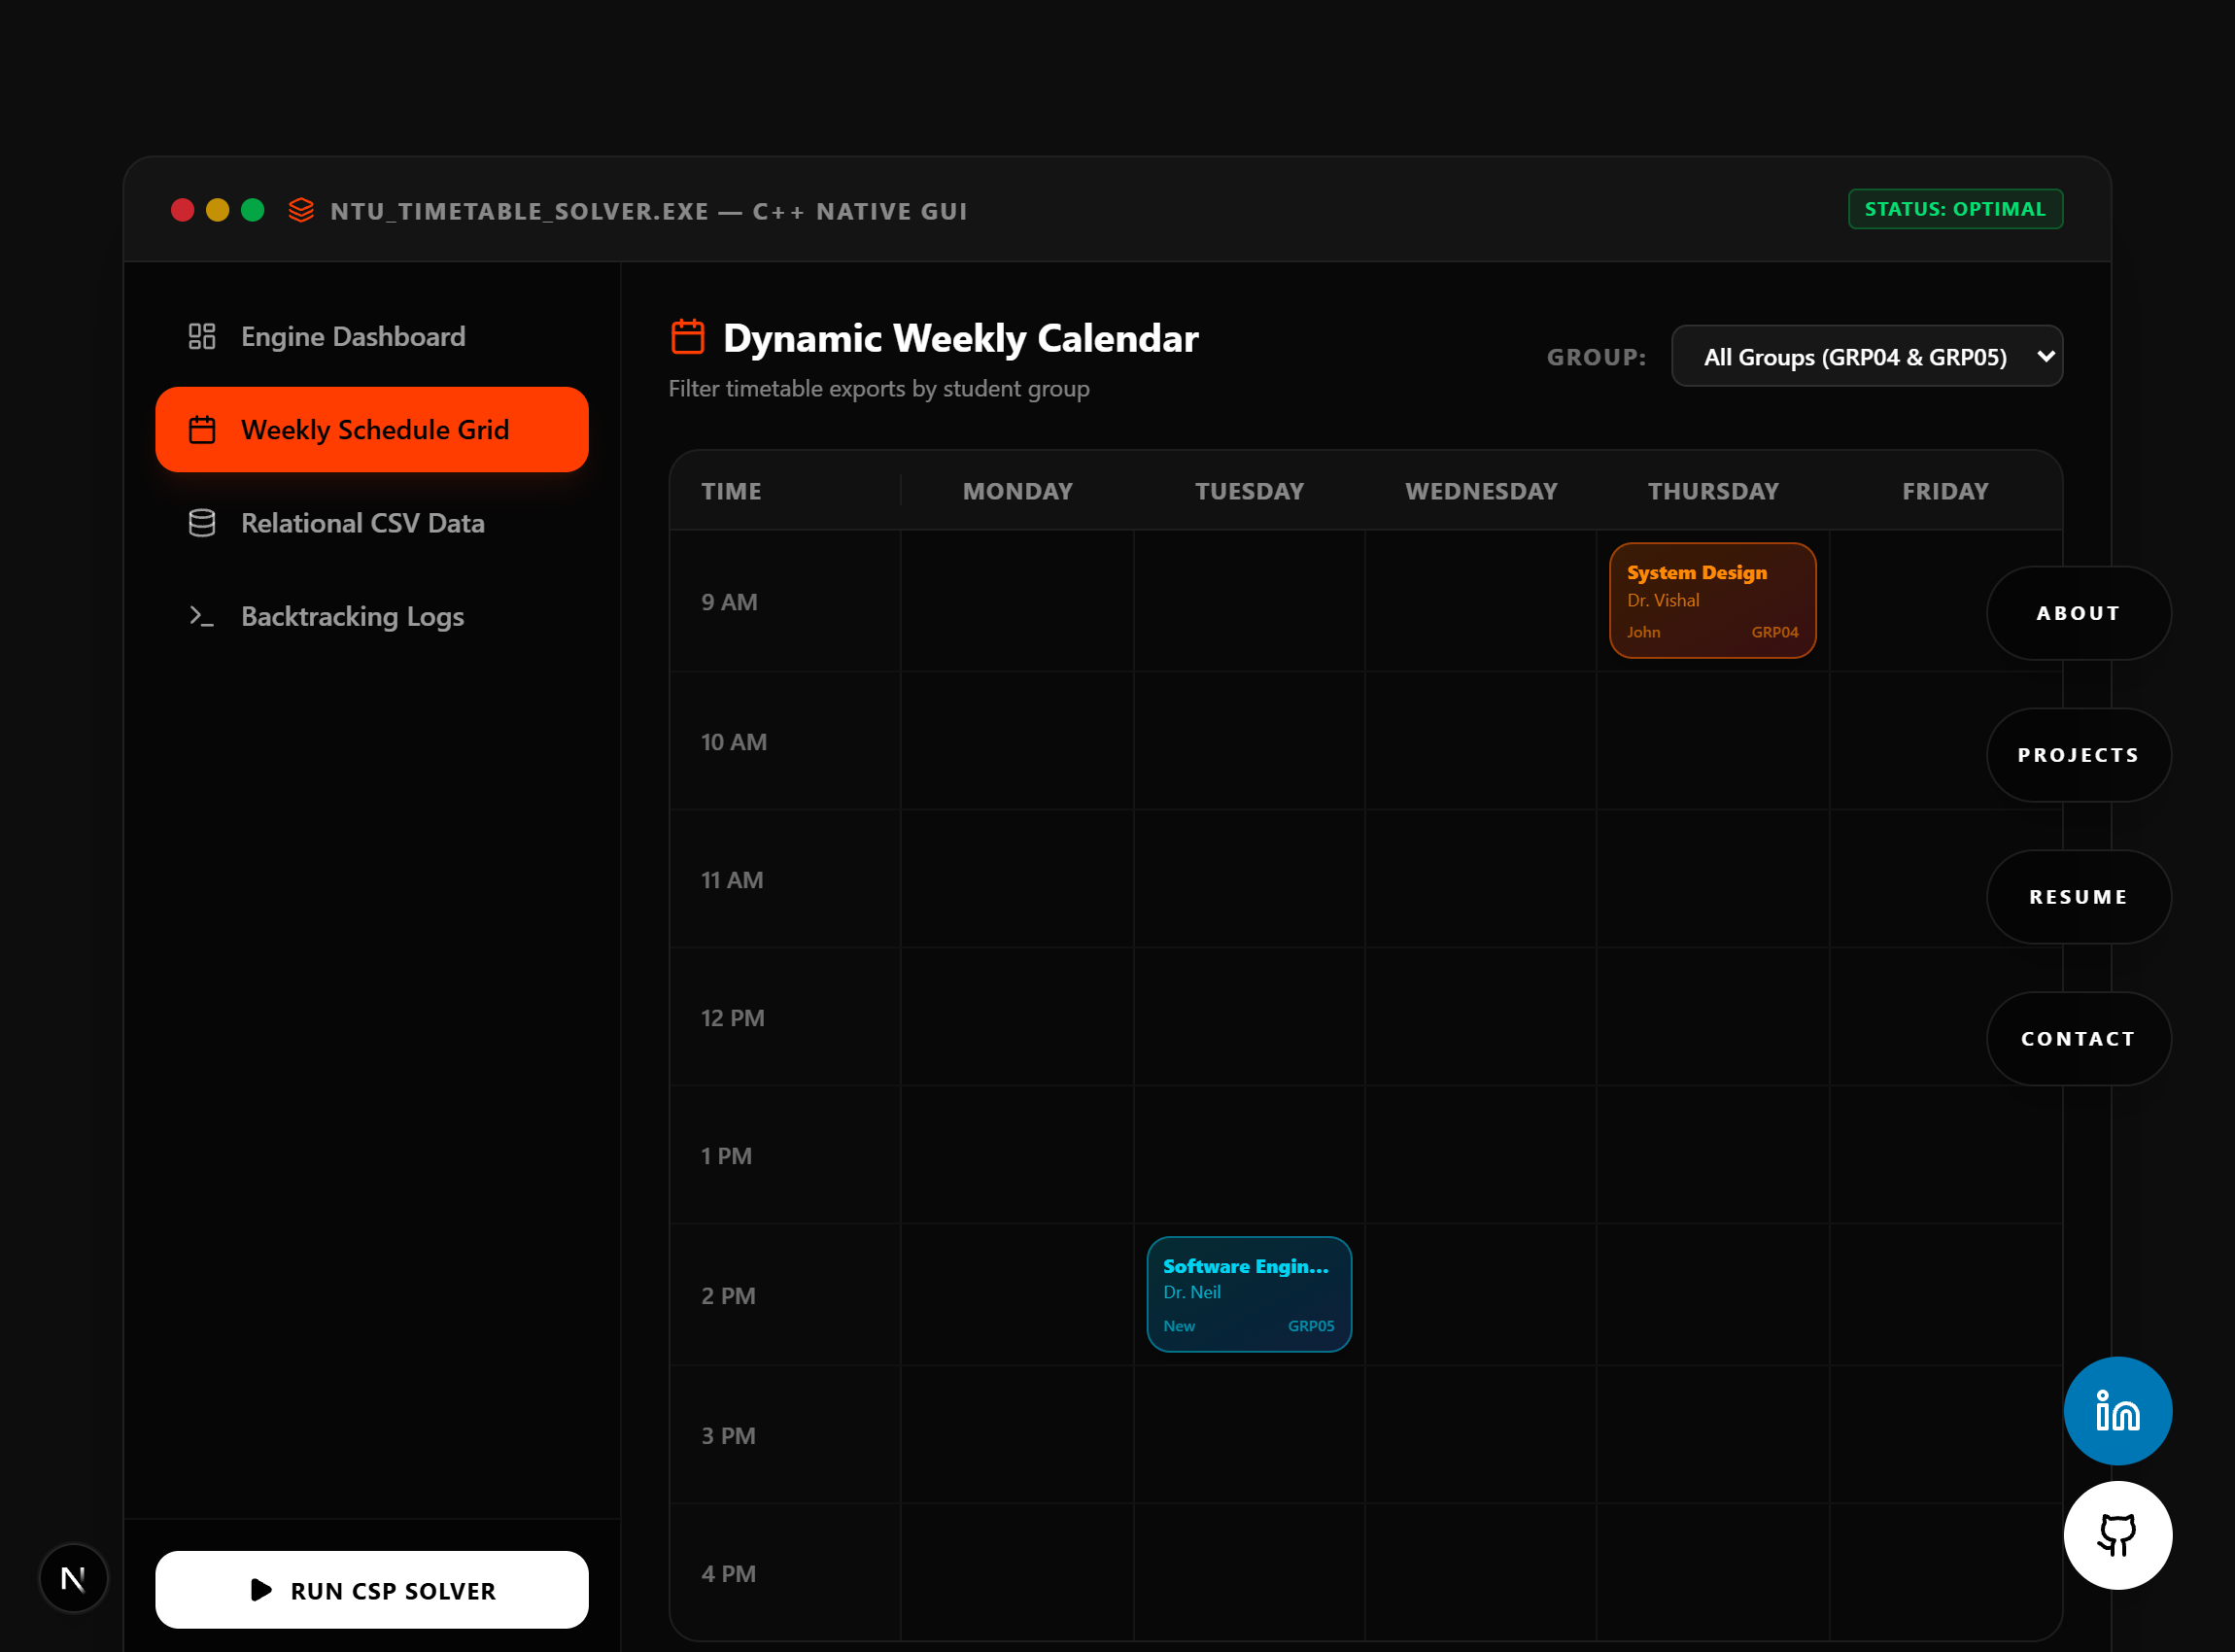
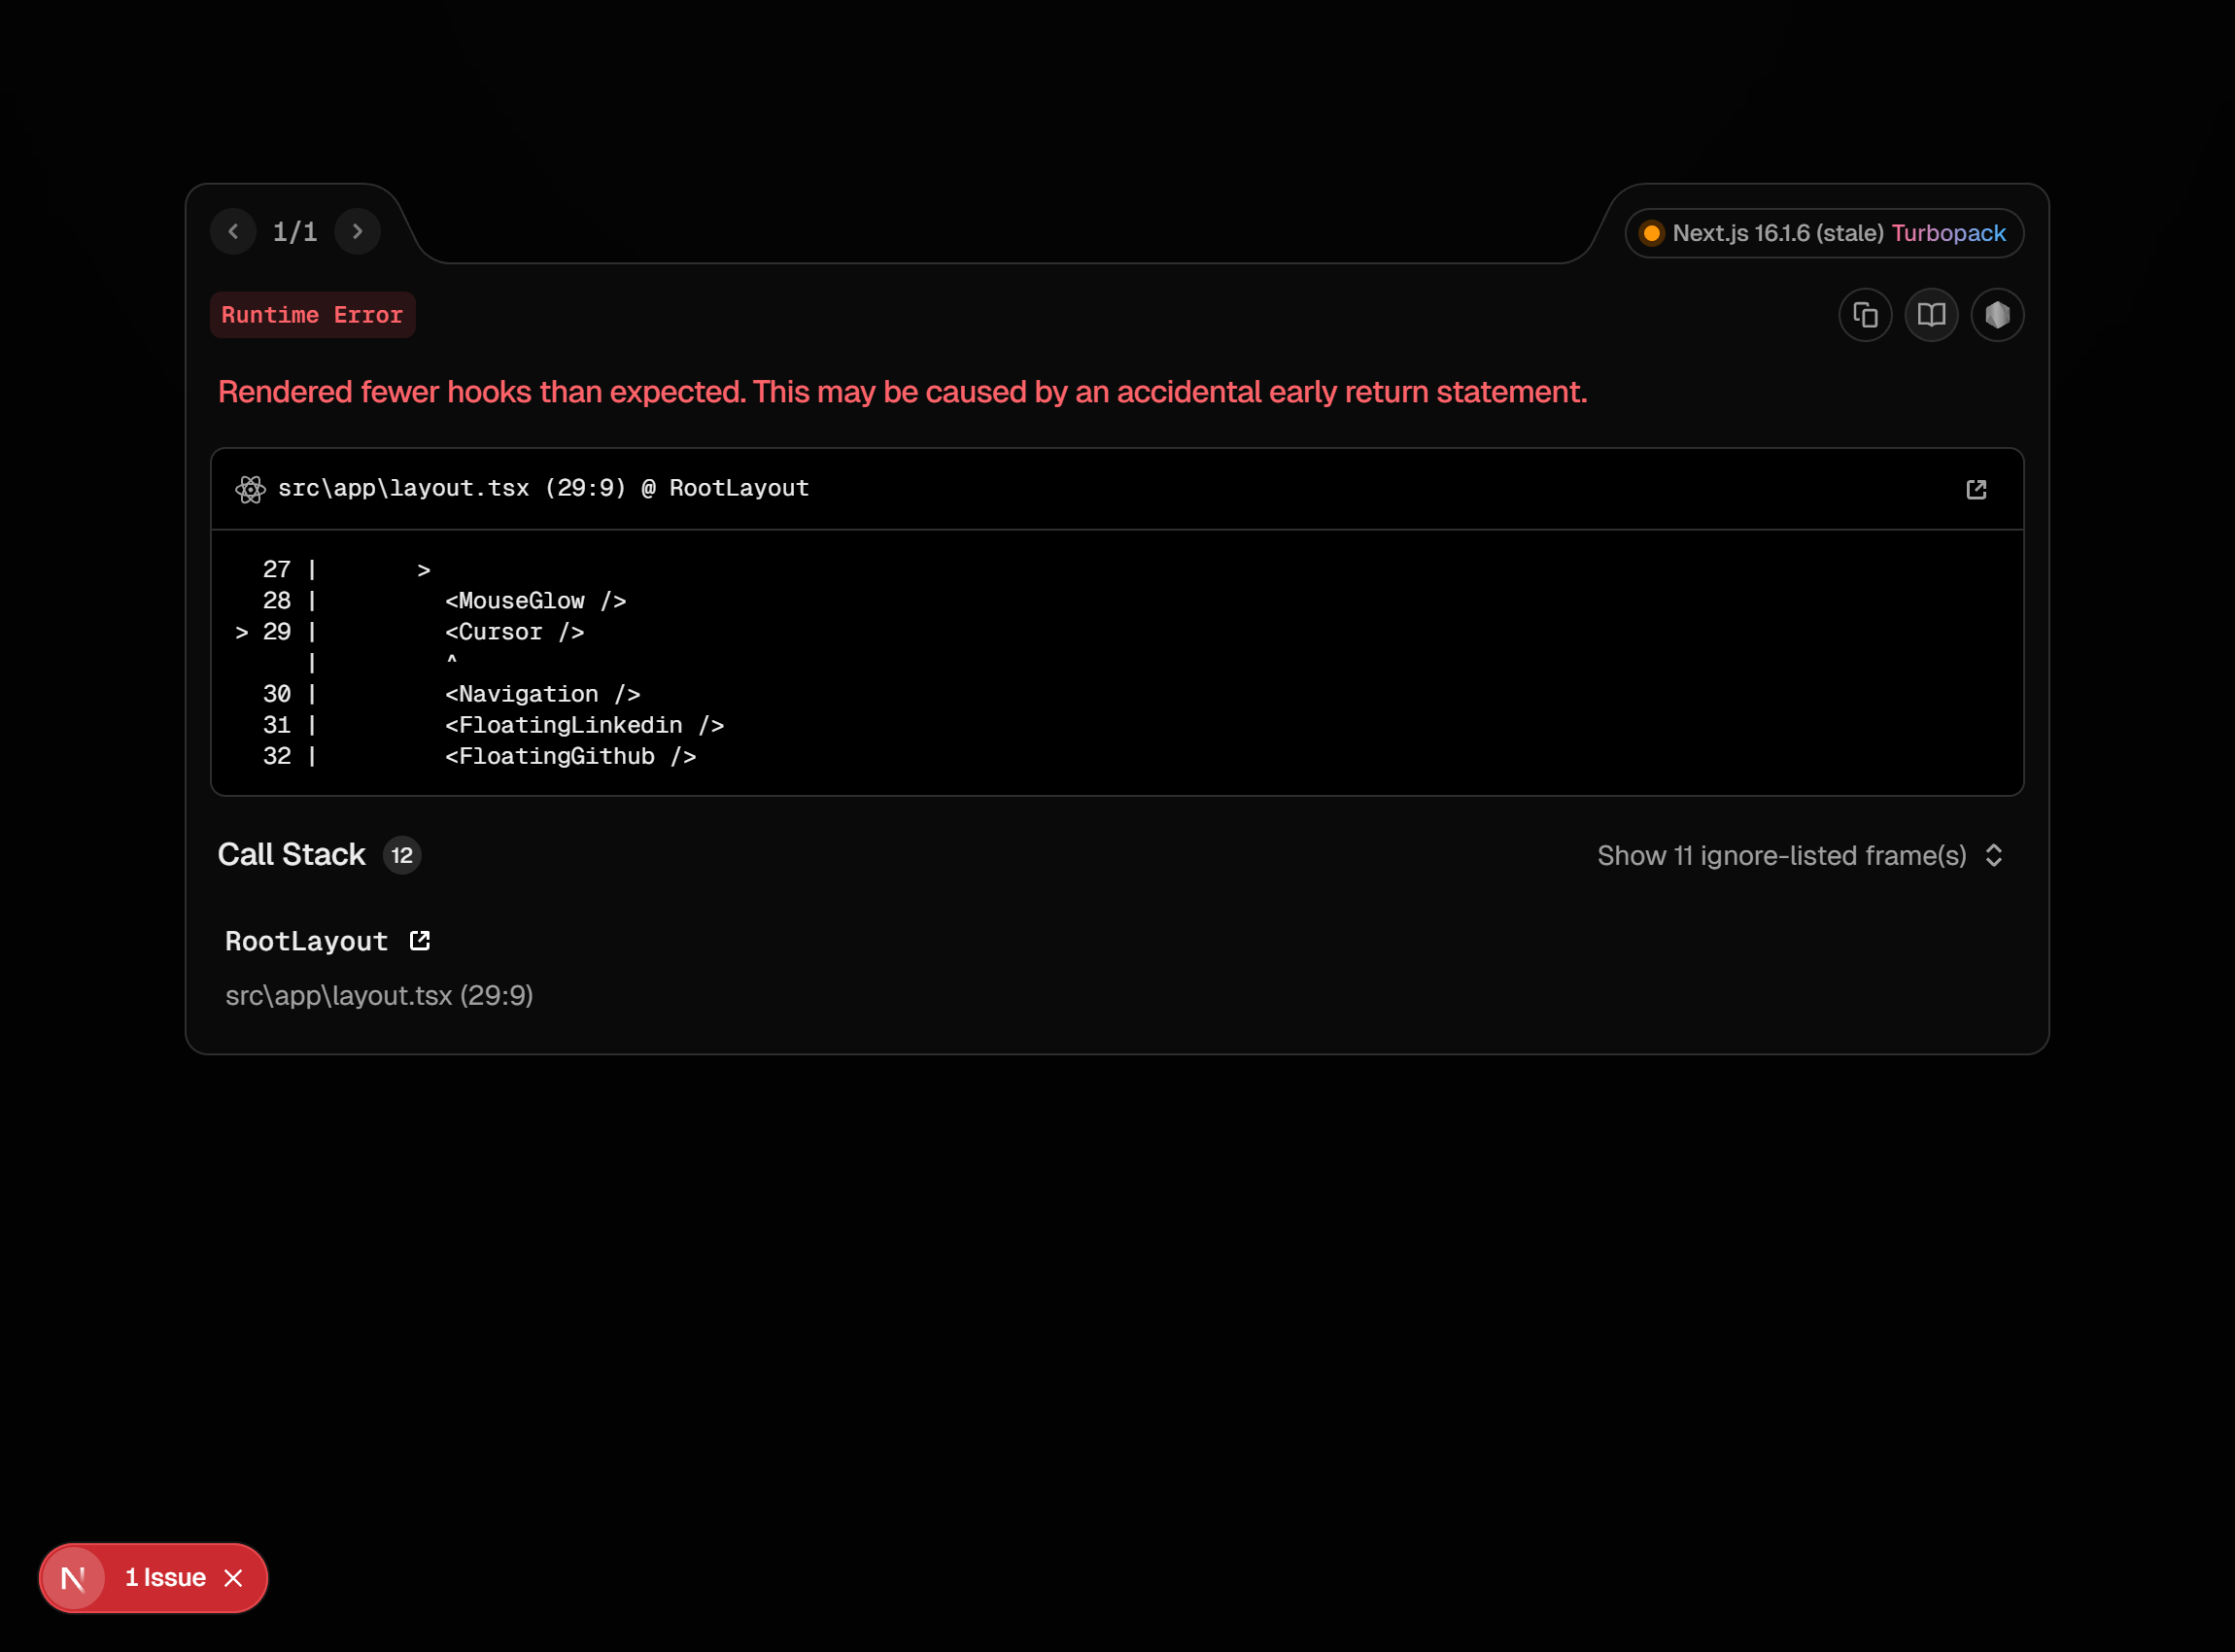
Fix: Hide UI overlays in screenshot mode and regenerate clean timetable simulator screenshots

diff --git a/src/components/FloatingGithub.tsx b/src/components/FloatingGithub.tsx
@@ -1,9 +1,22 @@
 'use client';
-
+import { useState, useEffect } from 'react';
 import { motion } from 'framer-motion';
 import { Github } from 'lucide-react';
 
 export function FloatingGithub() {
+    const [isHidden, setIsHidden] = useState(false);
+
+    useEffect(() => {
+        if (typeof window !== 'undefined') {
+            const params = new URLSearchParams(window.location.search);
+            if (params.get('screenshot') === 'true') {
+                setIsHidden(true);
+            }
+        }
+    }, []);
+
+    if (isHidden) return null;
+
     return (
         <motion.a
             href="https://github.com/SaaFazal"

diff --git a/src/components/FloatingLinkedin.tsx b/src/components/FloatingLinkedin.tsx
@@ -1,9 +1,22 @@
 'use client';
-
+import { useState, useEffect } from 'react';
 import { motion } from 'framer-motion';
 import { Linkedin } from 'lucide-react';
 
 export function FloatingLinkedin() {
+    const [isHidden, setIsHidden] = useState(false);
+
+    useEffect(() => {
+        if (typeof window !== 'undefined') {
+            const params = new URLSearchParams(window.location.search);
+            if (params.get('screenshot') === 'true') {
+                setIsHidden(true);
+            }
+        }
+    }, []);
+
+    if (isHidden) return null;
+
     return (
         <motion.a
             href="https://www.linkedin.com/in/sahadh-fazal-mohamed-770267337/"

diff --git a/src/components/Navigation.tsx b/src/components/Navigation.tsx
@@ -1,9 +1,23 @@
 'use client';
+import { useState, useEffect } from 'react';
 import Link from 'next/link';
 import { Magnetic } from './Magnetic';
 import { User, FolderGit2, FileText, Send, Award } from 'lucide-react';
 
 export function Navigation() {
+  const [isHidden, setIsHidden] = useState(false);
+
+  useEffect(() => {
+    if (typeof window !== 'undefined') {
+      const params = new URLSearchParams(window.location.search);
+      if (params.get('screenshot') === 'true') {
+        setIsHidden(true);
+      }
+    }
+  }, []);
+
+  if (isHidden) return null;
+
   return (
     <>
       <nav className="fixed right-4 md:right-8 top-1/2 -translate-y-1/2 z-[100] flex flex-col gap-4 hidden md:flex">

diff --git a/src/components/Cursor.tsx b/src/components/Cursor.tsx
@@ -4,6 +4,18 @@ import { motion, useMotionValue, useSpring } from 'framer-motion';
 
 export function Cursor() {
   const [isVisible, setIsVisible] = useState(false);
+  const [isHidden, setIsHidden] = useState(false);
+
+  useEffect(() => {
+    if (typeof window !== 'undefined') {
+      const params = new URLSearchParams(window.location.search);
+      if (params.get('screenshot') === 'true') {
+        setIsHidden(true);
+      }
+    }
+  }, []);
+
+  if (isHidden) return null;
   
   const cursorX = useMotionValue(-100);
   const cursorY = useMotionValue(-100);

diff --git a/src/components/MouseGlow.tsx b/src/components/MouseGlow.tsx
@@ -5,12 +5,22 @@ import { motion, useMotionValue, useSpring } from 'framer-motion';
 
 export function MouseGlow() {
   const [isMounted, setIsMounted] = useState(false);
+  const [isHidden, setIsHidden] = useState(false);
   
   const mouseX = useMotionValue(0);
   const mouseY = useMotionValue(0);
 
   const springX = useSpring(mouseX, { stiffness: 50, damping: 20 });
   const springY = useSpring(mouseY, { stiffness: 50, damping: 20 });
+
+  useEffect(() => {
+    if (typeof window !== 'undefined') {
+      const params = new URLSearchParams(window.location.search);
+      if (params.get('screenshot') === 'true') {
+        setIsHidden(true);
+      }
+    }
+  }, []);
 
   useEffect(() => {
     setIsMounted(true);
@@ -23,6 +33,7 @@ export function MouseGlow() {
     return () => window.removeEventListener('mousemove', handleMouseMove);
   }, [mouseX, mouseY]);
 
+  if (isHidden) return null;
   if (!isMounted) return null;
 
   return (